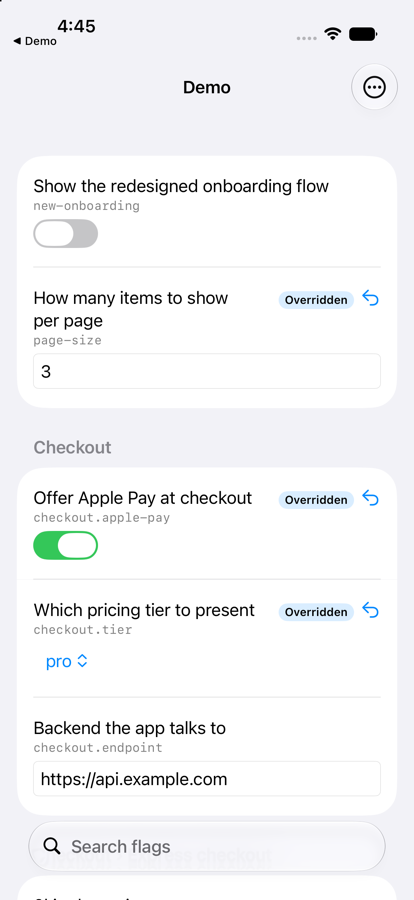
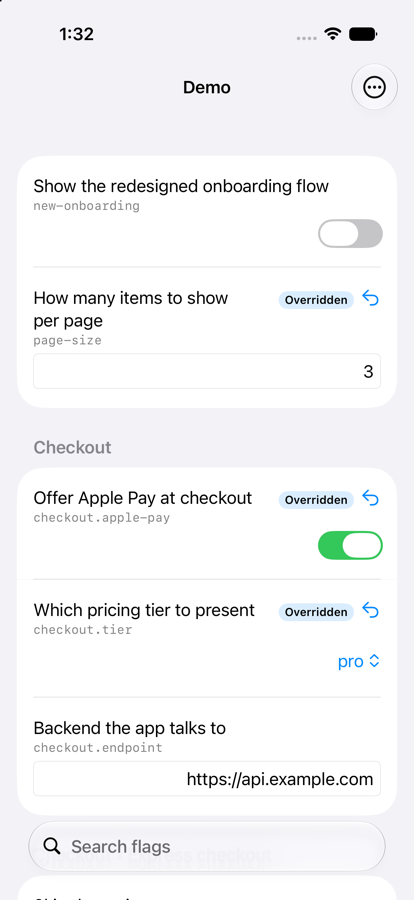
Trailing-align the flag controls in the companion editor
Toggles, pickers and date pickers now sit on the trailing edge, and a
single-line text field aligns its value there too. The field keeps its full
width rather than shrinking to fit its content, because a narrow one truncates
a URL, which is the value most worth reading in full.

Screenshot updated to match.

Claude-Session: https://claude.ai/code/session_01NnwCqKNm8rZ63Au6bpYdaD

diff --git a/Sources/FeatureFlagUI/FlagRowView.swift b/Sources/FeatureFlagUI/FlagRowView.swift
@@ -26,7 +26,7 @@ public struct FlagRowView: View {
             case .toggle:
                 Toggle(isOn: boolBinding) { Text(entry.description) }
                     .labelsHidden()
-                    .frame(maxWidth: .infinity, alignment: .leading)
+                    .frame(maxWidth: .infinity, alignment: .trailing)
 
             case let .picker(cases):
                 Picker(entry.description, selection: pickerBinding) {
@@ -36,12 +36,12 @@ public struct FlagRowView: View {
                 }
                 .labelsHidden()
                 .pickerStyle(.menu)
-                .frame(maxWidth: .infinity, alignment: .leading)
+                .frame(maxWidth: .infinity, alignment: .trailing)
 
             case .date:
                 DatePicker(entry.description, selection: dateBinding)
                     .labelsHidden()
-                    .frame(maxWidth: .infinity, alignment: .leading)
+                    .frame(maxWidth: .infinity, alignment: .trailing)
 
             case .integer, .decimal:
                 textField(keyboard: .numbersAndPunctuation)
@@ -159,6 +159,7 @@ struct FlagTextField: View {
             } else {
                 TextField("", text: $draft)
                     .textFieldStyle(.roundedBorder)
+                    .multilineTextAlignment(.trailing)
                     #if os(iOS) || os(tvOS)
                         .keyboardType(keyboard.uiKeyboardType)
                         .autocorrectionDisabled()
